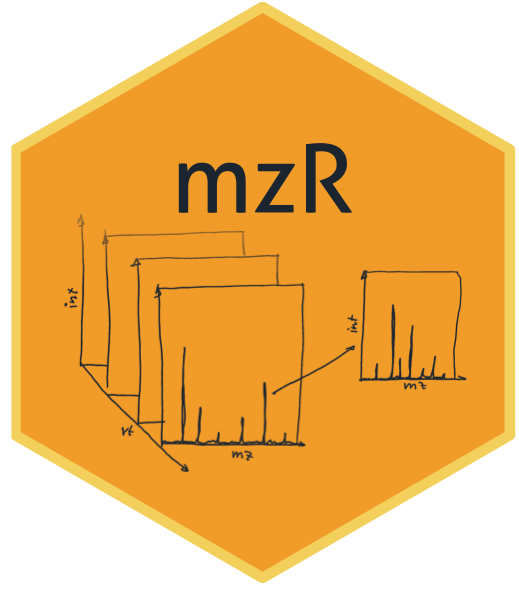
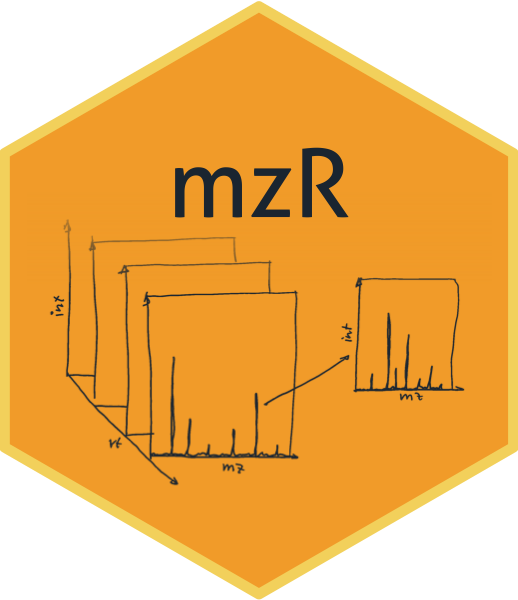
Make mzR sticker with hexSticker package
o Add mzR_hexSticker.R script to create the mzR sticker using the hexSticker
  package.

diff --git a/mzR/README.md b/mzR/README.md
@@ -5,4 +5,6 @@
 
 <img src="./mzR.png" height="200">
 
-
+The sticker was generated using the [`mzR_hexSticker.R`](./mzR_hexSticker.R) `R`
+script that uses the [`hexSticker`](https://github.com/GuangchuangYu/hexSticker)
+package.
